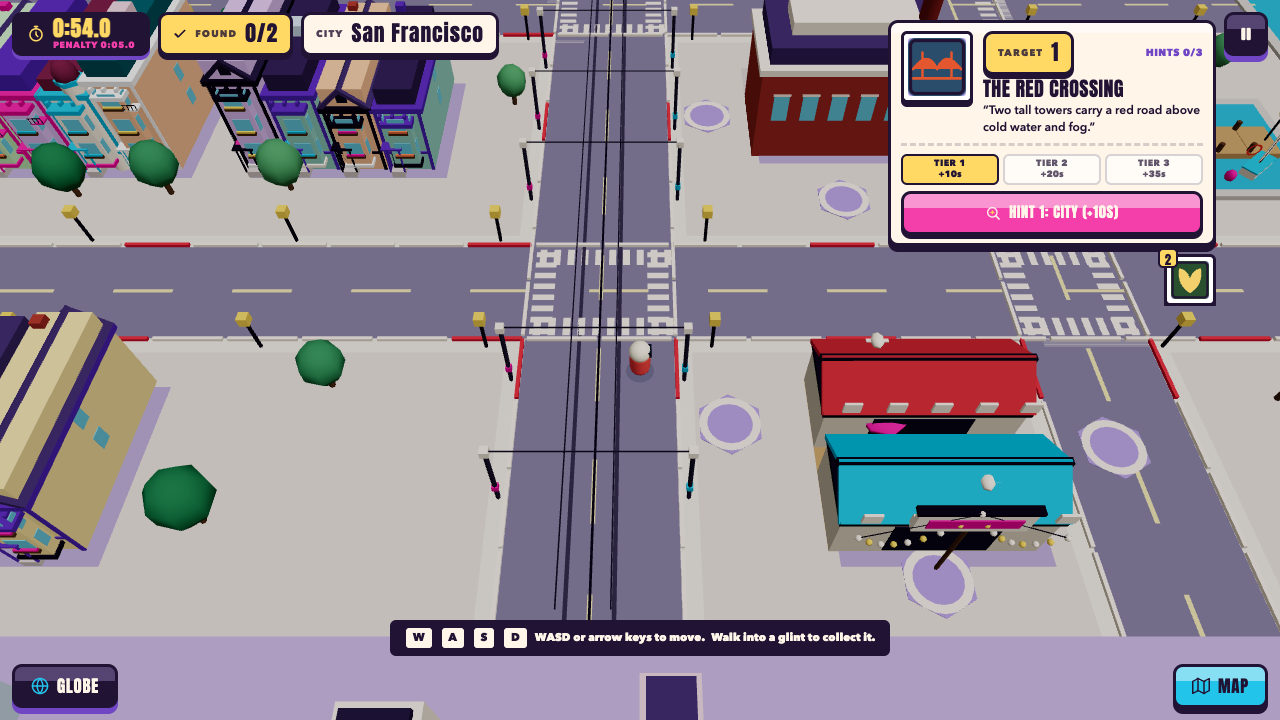
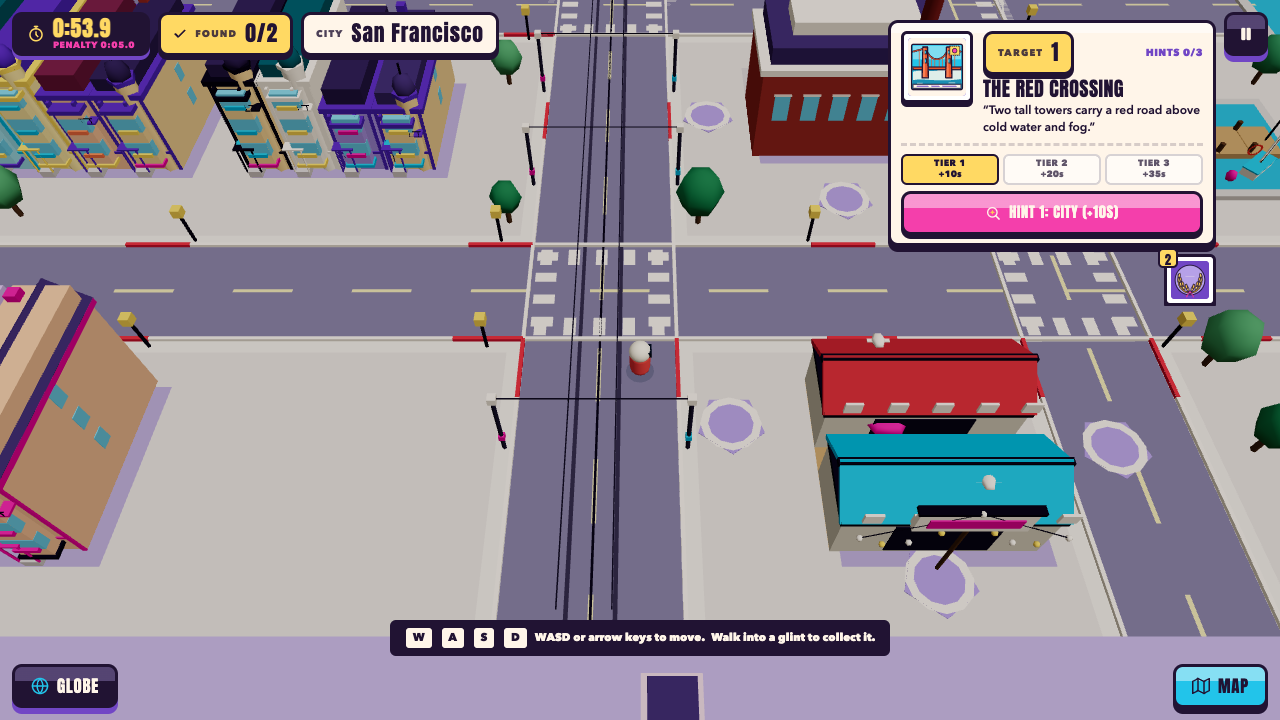
A9: San Francisco perf pass — cut triangles ~37% standard / ~26% low, keep 12 draw calls

diff --git a/src/cities/san-francisco/SanFranciscoScene.tsx b/src/cities/san-francisco/SanFranciscoScene.tsx
@@ -38,10 +38,10 @@ import type { Rng } from '@/shared/seed';
 // ---------------------------------------------------------------------------
 
 const UNIT_BOX = new BoxGeometry(1, 1, 1);
-const UNIT_CYLINDER = new CylinderGeometry(0.5, 0.5, 1, 6);
-const UNIT_SPHERE = new SphereGeometry(1, 7, 5);
+const UNIT_CYLINDER = new CylinderGeometry(0.5, 0.5, 1, 5);
+const UNIT_SPHERE = new SphereGeometry(1, 6, 4);
 const UNIT_PLANE = new PlaneGeometry(1, 1);
-const SOCKET_RING = new RingGeometry(1.7, 2.3, 20);
+const SOCKET_RING = new RingGeometry(1.7, 2.3, 12);
 const WHITE = new MeshLambertMaterial({ color: '#ffffff' });
 const HAZE_MATERIAL = new MeshBasicMaterial({ color: '#ffffff', transparent: true, opacity: 0.42, depthWrite: false });
 
@@ -63,7 +63,7 @@ const WATER_TONE = '#35b9dd';
 const WATER_DEEP_TONE = '#2593b8';
 const FOAM_TONE = '#c8f2fb';
 const HAZE_TONE = '#dcd3f0';
-const HAZE_BANDS = ['#cbbfe8', '#c9cdef', '#c3dcf3', '#bfe4f5'] as const;
+const HAZE_BANDS = ['#cbbfe8', '#c6d4f1', '#bfe4f5'] as const;
 const STRAIT_MIN_Z = -62;
 const STRAIT_MAX_Z = -28;
 const HILL_TONES = ['#c7b4ea', '#b6a1e8', '#a48fdc'] as const;
@@ -272,14 +272,20 @@ function buildStreets(definition: CityDefinition, quality: Quality, batches: Bat
             { minX: road.maxX, maxX: road.maxX + 1.4, minZ: road.minZ, maxZ: road.maxZ },
           ];
       for (const strip of strips) batches.flats.push(flatItem(strip, 0.016, SIDEWALK_TONE));
+      // One continuous white kerb per side, with a red painted segment every 30 units.
       const length = horizontal ? width(road) : depth(road);
-      for (let along = 0; along < length; along += 6) {
-        const paint = Math.floor(along / 6) % 5 === 0 ? CURB_RED : CURB_WHITE;
-        for (const side of [-1, 1] as const) {
-          const item: InstanceItem = horizontal
-            ? { x: road.minX + along + 3, y: 0.15, z: centerZ(road) + side * (depth(road) / 2 + 0.15), sx: 5.6, sy: 0.3, sz: 0.3, color: paint }
-            : { x: centerX(road) + side * (width(road) / 2 + 0.15), y: 0.15, z: road.minZ + along + 3, sx: 0.3, sy: 0.3, sz: 5.6, color: paint };
-          batches.boxes.push(item);
+      for (const side of [-1, 1] as const) {
+        batches.boxes.push(
+          horizontal
+            ? { x: centerX(road), y: 0.15, z: centerZ(road) + side * (depth(road) / 2 + 0.15), sx: length, sy: 0.3, sz: 0.3, color: CURB_WHITE }
+            : { x: centerX(road) + side * (width(road) / 2 + 0.15), y: 0.15, z: centerZ(road), sx: 0.3, sy: 0.3, sz: length, color: CURB_WHITE },
+        );
+        for (let along = 0; along < length; along += 30) {
+          batches.boxes.push(
+            horizontal
+              ? { x: road.minX + along + 3, y: 0.16, z: centerZ(road) + side * (depth(road) / 2 + 0.15), sx: 5.6, sy: 0.32, sz: 0.32, color: CURB_RED }
+              : { x: centerX(road) + side * (width(road) / 2 + 0.15), y: 0.16, z: road.minZ + along + 3, sx: 0.32, sy: 0.32, sz: 5.6, color: CURB_RED },
+          );
         }
       }
     }
@@ -303,13 +309,13 @@ function buildStreets(definition: CityDefinition, quality: Quality, batches: Bat
       for (const b of roads) {
         if (width(b) >= depth(b)) continue;
         for (const edgeZ of [a.minZ, a.maxZ]) {
-          for (let x = b.minX + 0.6; x < b.maxX - 0.4; x += 1.2) {
-            batches.flats.push({ x: x + 0.3, y: 0.032, z: edgeZ + (edgeZ === a.minZ ? 1.2 : -1.2), sx: 0.6, sy: 1.8, sz: 1, rx: FLAT, color: CREAM });
+          for (let x = b.minX + 0.6; x < b.maxX - 0.4; x += 2.4) {
+            batches.flats.push({ x: x + 0.5, y: 0.032, z: edgeZ + (edgeZ === a.minZ ? 1.2 : -1.2), sx: 1.0, sy: 1.8, sz: 1, rx: FLAT, color: CREAM });
           }
         }
         for (const edgeX of [b.minX, b.maxX]) {
-          for (let z = a.minZ + 0.6; z < a.maxZ - 0.4; z += 1.2) {
-            batches.flats.push({ x: edgeX + (edgeX === b.minX ? 1.2 : -1.2), y: 0.032, z: z + 0.3, sx: 1.8, sy: 0.6, sz: 1, rx: FLAT, color: CREAM });
+          for (let z = a.minZ + 0.6; z < a.maxZ - 0.4; z += 2.4) {
+            batches.flats.push({ x: edgeX + (edgeX === b.minX ? 1.2 : -1.2), y: 0.032, z: z + 0.5, sx: 1.8, sy: 1.0, sz: 1, rx: FLAT, color: CREAM });
           }
         }
       }
@@ -326,7 +332,7 @@ function buildStreets(definition: CityDefinition, quality: Quality, batches: Bat
   if (quality === 'low') return;
   const wireY = 6.2;
   const poleX = width(mainStreet) / 2 + 0.7;
-  for (let z = mainStreet.minZ + 4; z < mainStreet.maxZ; z += 10) {
+  for (let z = mainStreet.minZ + 4; z < mainStreet.maxZ; z += 14) {
     const clear = [-1, 1].every((side) => {
       const x = centerX(mainStreet) + side * poleX;
       if (definition.blockers.some((b) => contains(grow(b, 1), x, z))) return false;
@@ -407,7 +413,7 @@ function buildBackground(definition: CityDefinition, rng: Rng, quality: Quality,
   batches.flats.push(flatItem({ minX: -FAR, maxX: bounds.minX, minZ: STRAIT_MIN_Z, maxZ: STRAIT_MAX_Z }, -0.3, WATER_TONE));
 
   // Tiny pastel houses climbing the hills, plus stepped streets between them.
-  const houseCount = quality === 'low' ? 30 : 90;
+  const houseCount = quality === 'low' ? 14 : 40;
   for (let index = 0; index < houseCount; index += 1) {
     const west = rng.next() < 0.55;
     const x = west ? bounds.minX - 3 - rng.next() * 40 : bounds.minX + rng.next() * width(bounds);
@@ -418,7 +424,7 @@ function buildBackground(definition: CityDefinition, rng: Rng, quality: Quality,
     const h = 3 + rng.next() * 3;
     const w = 3 + rng.next() * 2;
     batches.boxes.push({ x, y: tierHeight - 0.3 + h / 2, z, sx: w, sy: h, sz: w, color: rng.pick(HILL_HOUSE_TONES) });
-    batches.boxes.push({ x, y: tierHeight - 0.3 + h + 0.35, z, sx: w * 0.8, sy: 0.7, sz: w * 0.8, color: rng.pick(ROOF_TONES) });
+    if (quality !== 'low') batches.boxes.push({ x, y: tierHeight - 0.3 + h + 0.35, z, sx: w * 0.8, sy: 0.7, sz: w * 0.8, color: rng.pick(ROOF_TONES) });
   }
   for (let z = STRAIT_MAX_Z + 14; z < 120; z += 24) {
     batches.boxes.push({ x: bounds.minX - 22, y: 4, z, sx: 44, sy: 8.5, sz: 3, color: DECK_TONE });
@@ -429,12 +435,13 @@ function buildBackground(definition: CityDefinition, rng: Rng, quality: Quality,
   // setting is touched; this is just a handful of instanced translucent slabs.
   const straitZ = (STRAIT_MIN_Z + STRAIT_MAX_Z) / 2;
   HAZE_BANDS.forEach((tone, index) => {
-    const y = 4 + index * 5;
-    batches.haze.push({ x: 0, y, z: -FAR + 30 + index * 10, sx: FAR * 2.2, sy: 10, sz: 1, color: tone });
-    batches.haze.push({ x: FAR - 30 - index * 10, y, z: 0, sx: 1, sy: 10, sz: FAR * 2.2, color: tone });
-    batches.haze.push({ x: -FAR + 40 + index * 12, y, z: straitZ, sx: 1, sy: 10, sz: 90, color: tone });
+    if (quality === 'low' && index > 0) return;
+    const y = 4 + index * 6;
+    batches.haze.push({ x: 0, y, z: -FAR + 30 + index * 10, sx: FAR * 2.2, sy: 12, sz: 1, color: tone });
+    batches.haze.push({ x: FAR - 30 - index * 10, y, z: 0, sx: 1, sy: 12, sz: FAR * 2.2, color: tone });
+    batches.haze.push({ x: -FAR + 40 + index * 12, y, z: straitZ, sx: 1, sy: 12, sz: 90, color: tone });
   });
-  const bankCount = quality === 'low' ? 4 : 9;
+  const bankCount = quality === 'low' ? 3 : 6;
   for (let index = 0; index < bankCount; index += 1) {
     const t = index / bankCount;
     const x = bounds.minX - 8 - t * 120;
@@ -442,8 +449,8 @@ function buildBackground(definition: CityDefinition, rng: Rng, quality: Quality,
     batches.haze.push({ x, y: 1.6 + (index % 3) * 1.1, z: straitZ + drift, sx: 26 + (index % 4) * 6, sy: 2.6 + (index % 2) * 1.4, sz: 12 + (index % 3) * 4, color: index % 2 ? HAZE_TONE : CREAM });
   }
   if (quality !== 'low') {
-    for (const x of [-96, -112, -126]) {
-      batches.haze.push({ x, y: 12, z: straitZ, sx: 14, sy: 9, sz: 40, color: HAZE_BANDS[2] });
+    for (const x of [-98, -124]) {
+      batches.haze.push({ x, y: 12, z: straitZ, sx: 16, sy: 9, sz: 40, color: HAZE_BANDS[2] });
     }
   }
 }
@@ -477,7 +484,7 @@ function buildGoldenGate(approach: Blocker, quality: Quality, batches: Batches):
     const z = cz + side * (DECK_HALF_DEPTH + 4.5);
     batches.boxes.push({ x: approach.maxX - 6, y: 2.9, z, sx: 3, sy: 3.4, sz: 3, color: CREAM });
     batches.boxes.push({ x: approach.maxX - 6, y: 4.9, z, sx: 4, sy: 0.6, sz: 4, color: ORANGE });
-    for (const x of [approach.minX + 4, approach.maxX - 14, approach.maxX - 2.5]) {
+    for (const x of [approach.minX + 4, approach.maxX - 8]) {
       batches.cylinders.push({ x, y: 2.2, z: z + side * 3, sx: 0.6, sy: 2, sz: 0.6, color: TRUNK_TONE });
       batches.spheres.push({ x, y: 4.6, z: z + side * 3, sx: 1.4, sy: 2.6, sz: 1.4, color: LEAF_TONES[1] });
     }
@@ -533,7 +540,7 @@ function buildGoldenGate(approach: Blocker, quality: Quality, batches: Batches):
   }
   // Deck lamps along both railings, and a tug pushing through the strait under the span.
   if (quality !== 'low') {
-    for (let x = approach.minX - 6; x > DECK_END_X + 4; x -= 12) {
+    for (let x = approach.minX - 6; x > DECK_END_X + 4; x -= 24) {
       for (const side of [-1, 1] as const) {
         const z = cz + side * (DECK_HALF_DEPTH + 0.3);
         batches.cylinders.push({ x, y: DECK_Y + 1.6, z, sx: 0.14, sy: 2.2, sz: 0.14, color: LAMP_POST_TONE });
@@ -555,7 +562,7 @@ function buildGoldenGate(approach: Blocker, quality: Quality, batches: Batches):
     { x0: eastTowerX, y0: topY + 1.2, x1: WEST_TOWER_X, y1: topY - 0.3, sag: 11 },
     { x0: WEST_TOWER_X, y0: topY - 0.3, x1: DECK_END_X - 4, y1: DECK_Y, sag: 0 },
   ];
-  const segments = quality === 'low' ? 6 : 12;
+  const segments = quality === 'low' ? 5 : 8;
   for (const side of [-1, 1] as const) {
     const z = cz + side * (DECK_HALF_DEPTH + 0.6);
     for (const span of spans) {
@@ -571,6 +578,7 @@ function buildGoldenGate(approach: Blocker, quality: Quality, batches: Batches):
       }
       if (quality === 'low' || span.sag === 0) continue;
       for (let index = 1; index < points.length - 1; index += 1) {
+        if (index % 2 === 0) continue;
         const [px, py, pz] = points[index]!;
         batches.boxes.push({ x: px, y: (py + DECK_Y) / 2, z: pz, sx: 0.16, sy: py - DECK_Y, sz: 0.16, color: CABLE_TONE });
       }
@@ -648,9 +656,8 @@ function buildVictorianRow(block: Blocker, rng: Rng, quality: Quality, batches: 
       batches.boxes.push({ x: body.minX + 1.0, y: 3.25, z: body.maxZ + 0.55, sx: 1.6, sy: 0.12, sz: 1.1, rx: 0.35, color: rng.next() < 0.5 ? HOT_PINK : CYAN });
     }
     for (let y = 2.4; y < height - 1.4; y += 2.6) {
-      batches.boxes.push({ x: bayX, y: y + 0.8, z: body.maxZ + 1.02, sx: bayWidth - 0.8, sy: 1.4, sz: 0.08, color: GLASS_TONE });
-      batches.boxes.push({ x: bayX - bayWidth / 2 - 0.02, y: y + 0.8, z: body.maxZ + 0.5, sx: 0.08, sy: 1.4, sz: 0.6, color: GLASS_TONE });
-      batches.boxes.push({ x: bayX + bayWidth / 2 + 0.02, y: y + 0.8, z: body.maxZ + 0.5, sx: 0.08, sy: 1.4, sz: 0.6, color: GLASS_TONE });
+      // One glass box slightly wider than the bay so it shows on the front and both cheeks.
+      batches.boxes.push({ x: bayX, y: y + 0.8, z: body.maxZ + 0.7, sx: bayWidth + 0.04, sy: 1.4, sz: 0.64, color: GLASS_TONE });
       if (index === 0) batches.boxes.push({ x: body.minX - 0.04, y: y + 0.8, z: centerZ(body), sx: 0.08, sy: 1.4, sz: 1.0, color: GLASS_TONE });
       if (index === count - 1) batches.boxes.push({ x: body.maxX + 0.04, y: y + 0.8, z: centerZ(body), sx: 0.08, sy: 1.4, sz: 1.0, color: GLASS_TONE });
     }
@@ -659,7 +666,7 @@ function buildVictorianRow(block: Blocker, rng: Rng, quality: Quality, batches: 
     for (const cx of [body.minX + 0.15, body.maxX - 0.15]) {
       batches.boxes.push({ x: cx, y: height / 2, z: body.maxZ + 0.06, sx: 0.3, sy: height, sz: 0.12, color: trim });
     }
-    for (let bx = body.minX + 0.6; bx < body.maxX - 0.3; bx += 1.1) {
+    for (let bx = body.minX + 0.6; bx < body.maxX - 0.3; bx += 2.2) {
       batches.boxes.push({ x: bx, y: height - 0.3, z: body.maxZ + 0.3, sx: 0.25, sy: 0.5, sz: 0.5, color: trim });
     }
     if (rng.next() < 0.6) {
@@ -675,8 +682,7 @@ function buildVictorianRow(block: Blocker, rng: Rng, quality: Quality, batches: 
     batches.boxes.push({ x: body.minX + 1.0, y: 3.25, z: body.maxZ + 0.7, sx: 1.9, sy: 0.14, sz: 1.1, color: trim });
     const flower = rng.pick([HOT_PINK, YELLOW, CYAN, '#ff8a5b'] as const);
     for (let y = 2.4; y < height - 1.4; y += 2.6) {
-      batches.boxes.push({ x: bayX, y: y + 0.02, z: body.maxZ + 1.1, sx: bayWidth - 0.6, sy: 0.22, sz: 0.3, color: POST_TONE });
-      batches.boxes.push({ x: bayX, y: y + 0.22, z: body.maxZ + 1.1, sx: bayWidth - 0.7, sy: 0.18, sz: 0.24, color: flower });
+      batches.boxes.push({ x: bayX, y: y + 0.18, z: body.maxZ + 1.1, sx: bayWidth - 0.6, sy: 0.36, sz: 0.3, color: flower });
     }
     if (rng.next() < 0.45) {
       const by = height - 1.9;
@@ -684,7 +690,7 @@ function buildVictorianRow(block: Blocker, rng: Rng, quality: Quality, batches: 
       const bx = body.maxX - bw / 2 - 0.2;
       batches.boxes.push({ x: bx, y: by, z: body.maxZ + 0.5, sx: bw, sy: 0.16, sz: 1.0, color: trim });
       batches.boxes.push({ x: bx, y: by + 0.55, z: body.maxZ + 0.98, sx: bw, sy: 0.06, sz: 0.06, color: INK });
-      for (let rx = bx - bw / 2 + 0.15; rx <= bx + bw / 2; rx += 0.35) {
+      for (let rx = bx - bw / 2 + 0.15; rx <= bx + bw / 2; rx += 0.8) {
         batches.boxes.push({ x: rx, y: by + 0.3, z: body.maxZ + 0.98, sx: 0.05, sy: 0.55, sz: 0.05, color: INK });
       }
     }
@@ -782,9 +788,8 @@ function buildWharfSheds(block: Blocker, quality: Quality, batches: Batches): vo
   batches.boxes.push({ x: centerX(block), y: 7.6, z: block.maxZ + 1.45, sx: 5.6, sy: 1.0, sz: 0.1, color: HOT_PINK });
   batches.boxes.push({ x: centerX(block), y: 8.9, z: block.maxZ + 1.2, sx: 7.4, sy: 0.3, sz: 0.6, color: INK });
   if (quality === 'low') return;
-  for (let x = block.minX + 1; x <= block.maxX - 1; x += 3) {
+  for (let x = block.minX + 1; x <= block.maxX - 1; x += 6) {
     batches.cylinders.push({ x, y: 0.45, z: block.maxZ - 0.5, sx: 0.5, sy: 0.9, sz: 0.5, color: INK });
-    batches.cylinders.push({ x, y: 0.45, z: block.minZ + 0.5, sx: 0.5, sy: 0.9, sz: 0.5, color: INK });
   }
   for (const [cx, cz, h] of [[block.minX + 1.2, centerZ(block) + 1.6, 1.4], [block.minX + 2.6, centerZ(block) + 1.6, 0.9], [block.maxX - 1.5, centerZ(block) - 1.6, 1.2]] as const) {
     batches.boxes.push({ x: cx, y: h / 2, z: cz, sx: 1.2, sy: h, sz: 1.2, color: PLANK_TONE });
@@ -801,7 +806,7 @@ function buildWharfSheds(block: Blocker, quality: Quality, batches: Batches): vo
   const signX = centerX(block);
   const signY = 8.9;
   for (const corner of [block.minX + 0.6, block.maxX - 0.6]) {
-    const steps = 8;
+    const steps = 4;
     for (let index = 0; index <= steps; index += 1) {
       const t = index / steps;
       const x = signX + (corner - signX) * t;
@@ -901,7 +906,7 @@ function buildBayPier(block: Blocker, quality: Quality, batches: Batches): void 
 
 function buildProps(definition: CityDefinition, rng: Rng, quality: Quality, batches: Batches): void {
   const placed: [number, number][] = [];
-  const target = quality === 'low' ? 16 : 44;
+  const target = quality === 'low' ? 12 : 28;
   const { bounds } = definition;
   for (let attempt = 0; attempt < target * 8 && placed.length < target; attempt += 1) {
     const x = bounds.minX + rng.next() * width(bounds);
@@ -918,7 +923,7 @@ function buildProps(definition: CityDefinition, rng: Rng, quality: Quality, batc
   for (const road of definition.roads) {
     const horizontal = width(road) >= depth(road);
     if (!horizontal) continue;
-    for (let along = 9; along < width(road); along += 18) {
+    for (let along = 9; along < width(road); along += 27) {
       for (const side of [-1, 1] as const) {
         const x = road.minX + along;
         const z = centerZ(road) + side * (depth(road) / 2 + 0.8);
@@ -947,9 +952,9 @@ const FOAM_BARS: readonly InstanceItem[] = [
   { x: -84, y: -0.2, z: -32, sx: 10, sy: 0.5, sz: 1, rx: FLAT, color: FOAM_TONE },
 ];
 
-const RIPPLE_BARS: readonly InstanceItem[] = Array.from({ length: 28 }, (_, index) => {
-  const row = Math.floor(index / 7);
-  const col = index % 7;
+const RIPPLE_BARS: readonly InstanceItem[] = Array.from({ length: 16 }, (_, index) => {
+  const row = Math.floor(index / 4);
+  const col = (index % 4) * 2;
   const inStrait = row >= 2;
   return {
     x: inStrait ? -80 - col * 12 - (row % 2) * 6 : -110 + col * 38 + (row % 2) * 12,
@@ -959,7 +964,7 @@ const RIPPLE_BARS: readonly InstanceItem[] = Array.from({ length: 28 }, (_, inde
     sy: 0.35,
     sz: 1,
     rx: FLAT,
-    color: col % 2 ? WATER_DEEP_TONE : FOAM_TONE,
+    color: index % 2 ? WATER_DEEP_TONE : FOAM_TONE,
   };
 });
 
